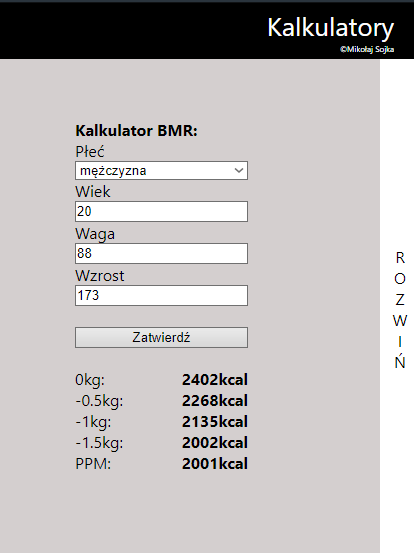
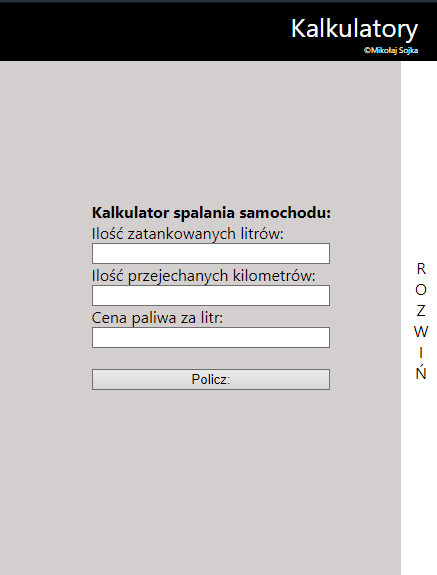
kk

Changed region(s): [[0.1739, 0.2152, 0.7536, 0.8608], [0.6377, 0.0307, 0.9565, 0.123], [0.9275, 0.4304, 0.9855, 0.6763]]

diff --git a/static/js/main.6bba95f8.chunk.js b/static/js/main.6bba95f8.chunk.js
@@ -1,0 +1,2 @@
+(window.webpackJsonpportfolio=window.webpackJsonpportfolio||[]).push([[0],{102:function(e,t,a){"use strict";a.r(t);var n=a(0),i=a.n(n),s=a(36),o=a.n(s),c=(a(47),a(3)),r=a(1),l=a(4),m=a(5),p=a(6);a(48);var d=function(){return i.a.createElement("div",{className:"header"},i.a.createElement("div",{className:"navbar"},i.a.createElement("a",{href:"#A2"},"Miko\u0142aj Sojka")),i.a.createElement("div",{className:"menu"},i.a.createElement("div",{className:"nav"},i.a.createElement("a",{href:"#A1"},"Projekty")),i.a.createElement("div",{className:"nav"},i.a.createElement("a",{href:"#A3"},"Kontakt"))))},u=(a(49),a(50),a(19)),h=a.n(u),E=a(9),y=a.n(E),k=(a(13),function(e){function t(){var e,a;Object(c.a)(this,t);for(var n=arguments.length,i=new Array(n),s=0;s<n;s++)i[s]=arguments[s];return(a=Object(l.a)(this,(e=Object(m.a)(t)).call.apply(e,[this].concat(i)))).state={list:"",presentation:"",mouseover:1,style:"",clicked:0},a.onMouseOver=function(e){window.innerWidth>900&&(document.getElementById("pres".concat(a.props.id)).style.display="none",document.getElementById("desc".concat(a.props.id)).style.display="block")},a.onClick=function(e){window.innerWidth<=900&&(0===a.state.clicked&&(document.getElementById("pres".concat(a.props.id)).style.display="none",document.getElementById("desc".concat(a.props.id)).style.display="block",a.setState({clicked:1})),1===a.state.clicked&&(document.getElementById("pres".concat(a.props.id)).style.display="flex",document.getElementById("desc".concat(a.props.id)).style.display="none",a.setState({clicked:0})))},a.onMouseOut=function(){window.innerWidth>900&&(document.getElementById("pres".concat(a.props.id)).style.display="flex",document.getElementById("desc".concat(a.props.id)).style.display="none")},a}return Object(p.a)(t,e),Object(r.a)(t,[{key:"updateSize",value:function(){document.getElementById("pres".concat(this.props.id)).style.display="flex",document.getElementById("desc".concat(this.props.id)).style.display="none"}},{key:"componentDidMount",value:function(){var e=this;window.addEventListener("resize",this.updateSize.bind(this)),void 0===this.props.demo&&(console.log(this.props.demo),this.setState({style:"none"}));try{var t="<div class='div-ul'>";this.props.technology.map((function(a){return t+="<div class='div-li".concat(e.props.type,"'>").concat(a,"</div>"),0})),t+="</div>",this.setState({list:t}),"iframe"===this.props.presentation&&(t="<iframe\n            id=".concat(this.props.alt,'\n            type="text/html"\n            width="100%"\n            height="100%"\n            src=').concat(this.props.src,'\n            allowfullscreen="allowfullscreen"\n            mozallowfullscreen="mozallowfullscreen" \n            msallowfullscreen="msallowfullscreen" \n            oallowfullscreen="oallowfullscreen" \n            webkitallowfullscreen="webkitallowfullscreen"\n            frameborder="0"\n          />'),this.setState({presentation:t})),"image"===this.props.presentation&&(t="<img\n      src=".concat(this.props.src,"\n      id=").concat(this.props.id,"\n      alt=").concat(this.props.alt,"\n    />"),this.setState({presentation:t}))}catch(a){}}},{key:"renderDemo",value:function(){if(!this.state.style)return i.a.createElement("a",{href:this.props.demo},i.a.createElement("div",{id:"demo",className:"link ".concat(this.state.style," ").concat("l-"+this.props.type)},"Demo"))}},{key:"render",value:function(){return y.a.init(),i.a.createElement("div",{className:"project",onMouseOver:this.onMouseOver,onMouseOut:this.onMouseOut,onClick:this.onClick},i.a.createElement("div",{className:"presentation",id:"pres"+this.props.id},h()(this.state.presentation)),i.a.createElement("div",{className:"description ".concat("t-"+this.props.type),id:"desc"+this.props.id},i.a.createElement("div",{className:"pro-title ".concat("tit-"+this.props.type)},this.props.title),i.a.createElement("div",{className:"links"},i.a.createElement("a",{href:this.props.href},i.a.createElement("div",{className:"first link ".concat("under"+this.props.type," ").concat("l-"+this.props.type)},"Github")),this.renderDemo()),i.a.createElement("div",{className:"pro-desc"},i.a.createElement("b",null,this.props.description)),h()(this.state.list)))}}]),t}(i.a.Component)),w=function(e){function t(){return Object(c.a)(this,t),Object(l.a)(this,Object(m.a)(t).apply(this,arguments))}return Object(p.a)(t,e),Object(r.a)(t,[{key:"componentDidMount",value:function(){y.a.init()}},{key:"render",value:function(){return i.a.createElement("div",null,i.a.createElement("div",{className:"projects last",id:"A1"},i.a.createElement("div",{className:"title-p"},i.a.createElement("p",null,i.a.createElement("b",{className:"p"},"Projekty:"))),i.a.createElement("div",{id:"pros"},i.a.createElement(k,{technology:["HTML","CSS","REACT JS oraz REDUX","NODE JS - BACKEND (w\u0142asny serwer z danymi)"],type:"1",title:"Skm",description:"Aplikacja pozwala sprawdza\u0107 odleg\u0142o\u015bci mi\u0119dzy stacjami SKM.",image:"./7.png",alt:"skm",id:"skm",presentation:"image",src:"./7.png",href:"https://github.com/msojka96/inf_exp/tree/master/skm",demo:"https://msojka96.github.io/skm"}),i.a.createElement(k,{technology:["HTML","CSS/LESS","MONGO DB","NODE JS (BACKEND - w\u0142asny serwer)","REACT JS oraz REDUX","LOGOWANIE","REJESTRACJA"],type:"1",title:"FIT APP",description:"Dzienniczek kaloryczny online.",image:"./4.png",alt:"fitapp",id:"fitapp",presentation:"image",src:"./4.png",href:"https://github.com/msojka96/inf_exp/tree/master/fitApp",demo:"https://msojka96.github.io/fitapp"}),i.a.createElement(k,{technology:["HTML","CSS/LESS","VUE oraz VUEX","NODE JS (BACKEND - w\u0142asny serwer)","SOCKET IO","MONGO DB","LOGIN: administrator","HAS\u0141O: admin"],type:"1",title:"Konkurs pi\u0119kno\u015bci koni Arabskich",description:"Panel s\u0119dziowski do konkursu pi\u0119kno\u015bci dla koni.",image:"./2.png",alt:"konie arabskie",id:"horses",presentation:"image",src:"./2.png",href:"https://github.com/msojka96/inf_exp/tree/master/project-horses",demo:"https://msojka96.github.io/horses"}))),i.a.createElement("div",{className:"projects projects-2 last"},i.a.createElement(k,{technology:["HTML","CSS","REACT JS oraz REDUX","GOOGLE CUSTOM SEARCH API","SEMANTIC UI"],type:"2",title:"Wyszukiwarka",description:"Wyszukiwarka zapyta\u0144 z serwisu Wikipedia.",image:"./3.png",alt:"wyszukiwarka",id:"searcher",presentation:"image",src:"./3.png",href:"https://github.com/msojka96/inf_exp/tree/master/searcher",demo:"https://msojka96.github.io/searcher"}),i.a.createElement(k,{technology:["HTML","CSS/LESS","REACT JS oraz REDUX"],type:"2",title:"Generator CV",description:"Aplikacja zosta\u0142a stworzona w oparciu o moje potrzeby tworzenia CV bez u\u017cywania programu Word.",image:"./8.png",alt:"cv",id:"cv",presentation:"image",src:"./8.png",href:"https://github.com/msojka96/inf_exp/tree/master/cv",demo:"https://msojka96.github.io/cv"}),i.a.createElement(k,{technology:["HTML","CSS/LESS","REACT JS oraz REDUX"],type:"2",title:"Kalkulatory",description:"Aplikacja zawiera kalkulatory do r\xf3\u017cnych oblicze\u0144 potrzebnych w \u017cyciu.",image:"./9.png",alt:"calculatores",id:"calculatores",presentation:"image",src:"./9.png",href:"https://github.com/msojka96/inf_exp/tree/master/calculators",demo:"https://msojka96.github.io/calculators"})),i.a.createElement("div",{className:"projects last"},i.a.createElement(k,{technology:["HTML","CSS/LESS","BOOTSTRAP","GOOGLE MAPS API"],type:"1",title:"Strona domki Rewa",description:"Niedoko\u0144czone zlecenie strony promuj\u0105cej wynajem domk\xf3w na Rewie.",image:"./1.png",alt:"domki rewa",id:"domki",presentation:"image",src:"./1.png",href:"https://github.com/msojka96/msojka96.github.io/tree/master/strona_domki",demo:"https://msojka96.github.io/strona_domki"})))}}]),t}(i.a.Component),f=(a(94),function(e){function t(){return Object(c.a)(this,t),Object(l.a)(this,Object(m.a)(t).apply(this,arguments))}return Object(p.a)(t,e),Object(r.a)(t,[{key:"componentDidMount",value:function(){y.a.init()}},{key:"render",value:function(){return i.a.createElement("div",{className:"about",id:"A2"},i.a.createElement("div",{id:"box-1",className:"box"},i.a.createElement("div",{id:"about",className:"about-photo"},i.a.createElement("img",{src:"me.jpg",id:"me",alt:"me"})),i.a.createElement("div",{id:"life",className:"desc"},i.a.createElement("div",{className:"desc-text"},i.a.createElement("p",null,i.a.createElement("b",{className:"title-p t"},"O mnie :")),"Mam 22 lata. Uko\u0144czy\u0142em kierunek licencjacki: ",i.a.createElement("b",null,"informatyka")," ","na wydziale MFI na Uniwesytecie Gda\u0144skim ze specjalizacj\u0105:"," ",i.a.createElement("b",null,"aplikacje internetowe i bazy danych"),". Interesuj\u0119 si\u0119 napraw\u0105 urz\u0105dze\u0144 elektronicznych , jazd\u0105 wyczynow\u0105 na rolkach, jazd\u0105 wyczynow\u0105 na \u0142y\u017cwach, sportem oraz s\u0142uchaniem muzyki. Dodatkow\u0105 przyjemno\u015b\u0107 sprawia mi tworzenie aplikacji internetowych."))),i.a.createElement("div",{id:"box-2",className:"box"},i.a.createElement("div",{id:"skills",className:"desc"},i.a.createElement("p",null,i.a.createElement("b",{className:"title-p"},"Umiej\u0119tno\u015bci :")),i.a.createElement("ul",null,i.a.createElement("li",null,i.a.createElement("b",null,"Javascript"),", wraz z Dom Api, Jquery oraz Ajax."),i.a.createElement("li",null,"ReactJS, wraz z Redux oraz Vue, wraz z Vuex."),i.a.createElement("li",null,"Html, CSS, Less, Sass."),i.a.createElement("li",null,"ExpressJS, pisanie w\u0142asnych serwer\xf3w."),i.a.createElement("li",null,"Znajomo\u015b\u0107 systemu Linux oraz Git."),i.a.createElement("li",null,"Bieg\u0142a obs\u0142uga program\xf3w: Excel oraz Word."),i.a.createElement("li",null,"Dodatkowo podczas studiowania mia\u0142em kontakt z j\u0119zykami: C, Java, C++, Ruby, Assembler, C#, batch, SQL, PostgreSQL."))),i.a.createElement("div",{id:"about",className:"about-photo"},i.a.createElement("img",{src:"me1.jpg",id:"me1",alt:"me1"}))),i.a.createElement("div",{id:"box-3",className:"box"},i.a.createElement("div",{id:"about",className:"about-photo"},i.a.createElement("img",{src:"me2.jpg",id:"me2",alt:"me2"})),i.a.createElement("div",{className:"desc"},i.a.createElement("p",null,i.a.createElement("b",{className:"title-p t"},"UWAGA!: ")),i.a.createElement("p",null,"Poni\u017cej znajduj\u0105 si\u0119 wybrane przeze mnie projekty wraz z przekierowaniami do ich repozytori\xf3w. Tworz\u0105c moje prywatne projekty staram si\u0119 u\u017cywa\u0107 w\u0142asnych umiej\u0119tno\u015bci CSS/LESS/SASS."))))}}]),t}(i.a.Component)),g=(a(95),a(39)),b=a.n(g),j=a(40),v=a.n(j),S=a(37),z=a.n(S),N=function(e){function t(){return Object(c.a)(this,t),Object(l.a)(this,Object(m.a)(t).apply(this,arguments))}return Object(p.a)(t,e),Object(r.a)(t,[{key:"render",value:function(){return i.a.createElement("div",{className:"about",id:"A3"},i.a.createElement("p",{id:"contact"},i.a.createElement("b",null,"Kontakt:")),i.a.createElement("div",{className:"ainfo"},i.a.createElement(z.a,{className:"icons"})," \xa0"," ",i.a.createElement("a",{id:"github",href:"https://github.com/msojka96/"},"github")),i.a.createElement("div",{className:"ainfo"},i.a.createElement(b.a,{className:"icons"})," \xa0 690-819-235"),i.a.createElement("div",{className:"ainfo"},i.a.createElement(v.a,{className:"icons"})," \xa0 mikolaj.sojka@gmail.com"))}}]),t}(i.a.Component),O=function(e){function t(){var e,a;Object(c.a)(this,t);for(var n=arguments.length,s=new Array(n),o=0;o<n;o++)s[o]=arguments[o];return(a=Object(l.a)(this,(e=Object(m.a)(t)).call.apply(e,[this].concat(s)))).state={classname:"start"},a.handleClick=function(e){window.scrollTo(0,0)},a.handleScroll=function(){0!==window.scrollY?a.setState({classname:"update"}):a.setState({classname:"start"})},a.render=function(){return i.a.createElement("div",{className:"app"},i.a.createElement(d,null),i.a.createElement(f,null),i.a.createElement(w,{direction:"fade-down"}),i.a.createElement(N,{direction:"fade-down"}),i.a.createElement("div",{id:"button_top",className:a.state.classname,onClick:a.handleClick,color:"error"}),i.a.createElement("a",{href:"https://jigsaw.w3.org/css-validator/check/referer"},i.a.createElement("img",{id:"w3c",src:"https://jigsaw.w3.org/css-validator/images/vcss",alt:"Poprawny CSS!"})),i.a.createElement("footer",null,"\xa9 Copyright Miko\u0142aj Sojka"))},a}return Object(p.a)(t,e),Object(r.a)(t,[{key:"componentDidMount",value:function(){window.addEventListener("scroll",this.handleScroll,!0)}}]),t}(i.a.Component);o.a.render(i.a.createElement(O,null),document.getElementById("root"))},42:function(e,t,a){e.exports=a(102)},47:function(e,t,a){},48:function(e,t,a){},49:function(e,t,a){},50:function(e,t,a){},75:function(e,t){},94:function(e,t,a){},95:function(e,t,a){}},[[42,1,2]]]);
+//# sourceMappingURL=main.6bba95f8.chunk.js.map

diff --git a/static/css/main.eba449f2.chunk.css b/static/css/main.eba449f2.chunk.css
@@ -1,0 +1,2 @@
+html{scroll-behavior:smooth;font-family:Candara,Times,serif!important;background-color:#f5f7f8}.app{display:flex;flex-direction:column}body{margin:0}#button_top{position:fixed;right:30px;bottom:30px;cursor:pointer;width:30px;height:30px;background-color:#515a5a}#button_top:hover{background-color:#b4b2b2;-webkit-transition:.5s;transition:.5s}.start{visibility:hidden}.update{visibility:visible}footer{color:#fff;text-align:center;align-items:center;justify-content:center}#w3c,footer{height:20px;display:none}#w3c{border:0;width:70px;position:absolute;opacity:.3;left:0;top:15vh}@media only screen and (max-width:1100px){footer{width:95vw;align-self:center}}.header{background-color:#000;color:#fff;height:15vh;justify-content:space-between;padding:0 20px}.header,.navbar{display:flex;align-items:center}.navbar{font-size:30px;cursor:pointer;justify-content:center}.menu{display:flex}.nav{padding-right:20px}a:link,a:visited{color:#fff}a:hover{color:#cccaca;-webkit-transition:.5s;transition:.5s}a:link{text-decoration:none}a:active{color:#fff}@media only screen and (max-width:900px){.navbar{font-size:20px}}.projects{height:600px;display:flex;width:100%;justify-content:space-around;align-items:center;background-color:#000}.title-p{font-size:30px;color:#fff;justify-content:flex-start;width:80%;margin-bottom:10px}.t{color:#000}.projects:first-child{flex-direction:column}#pros{display:flex;width:100%;justify-content:space-around;height:100%;padding-bottom:50px;align-items:center}.projects-2{background-color:#fff}@media only screen and (max-width:900px){.projects{height:auto;flex-direction:column;background-color:#fff}.title-p{color:#515151}#pros{height:auto;padding-bottom:0;flex-direction:column}}.project{height:400px;width:295px;display:flex;flex-direction:column;font-size:16px}.project:hover{-webkit-animation:shake .5s;animation:shake .5s;-webkit-animation-iteration-count:1;animation-iteration-count:1}.none{display:none}.links{color:#fff;display:flex;flex-direction:column;width:295px;align-items:flex-end}.link{width:100px;padding-right:15px;color:#515151;background-color:#fff;cursor:pointer;height:34px;display:flex;justify-content:center;align-items:center}.link:hover{background-color:#f5f7f8;color:#000;-webkit-transition-duration:1s;transition-duration:1s}#horses{opacity:.85}@-webkit-keyframes shake{0%{-webkit-transform:translate(1px,1px) rotate(0deg);transform:translate(1px,1px) rotate(0deg)}10%{-webkit-transform:translate(-1px,-2px) rotate(-1deg);transform:translate(-1px,-2px) rotate(-1deg)}20%{-webkit-transform:translate(-3px) rotate(1deg);transform:translate(-3px) rotate(1deg)}30%{-webkit-transform:translate(3px,2px) rotate(0deg);transform:translate(3px,2px) rotate(0deg)}40%{-webkit-transform:translate(1px,-1px) rotate(1deg);transform:translate(1px,-1px) rotate(1deg)}50%{-webkit-transform:translate(-1px,2px) rotate(-1deg);transform:translate(-1px,2px) rotate(-1deg)}60%{-webkit-transform:translate(-3px,1px) rotate(0deg);transform:translate(-3px,1px) rotate(0deg)}70%{-webkit-transform:translate(3px,1px) rotate(-1deg);transform:translate(3px,1px) rotate(-1deg)}80%{-webkit-transform:translate(-1px,-1px) rotate(1deg);transform:translate(-1px,-1px) rotate(1deg)}90%{-webkit-transform:translate(1px,2px) rotate(0deg);transform:translate(1px,2px) rotate(0deg)}to{-webkit-transform:translate(1px,-2px) rotate(-1deg);transform:translate(1px,-2px) rotate(-1deg)}}@keyframes shake{0%{-webkit-transform:translate(1px,1px) rotate(0deg);transform:translate(1px,1px) rotate(0deg)}10%{-webkit-transform:translate(-1px,-2px) rotate(-1deg);transform:translate(-1px,-2px) rotate(-1deg)}20%{-webkit-transform:translate(-3px) rotate(1deg);transform:translate(-3px) rotate(1deg)}30%{-webkit-transform:translate(3px,2px) rotate(0deg);transform:translate(3px,2px) rotate(0deg)}40%{-webkit-transform:translate(1px,-1px) rotate(1deg);transform:translate(1px,-1px) rotate(1deg)}50%{-webkit-transform:translate(-1px,2px) rotate(-1deg);transform:translate(-1px,2px) rotate(-1deg)}60%{-webkit-transform:translate(-3px,1px) rotate(0deg);transform:translate(-3px,1px) rotate(0deg)}70%{-webkit-transform:translate(3px,1px) rotate(-1deg);transform:translate(3px,1px) rotate(-1deg)}80%{-webkit-transform:translate(-1px,-1px) rotate(1deg);transform:translate(-1px,-1px) rotate(1deg)}90%{-webkit-transform:translate(1px,2px) rotate(0deg);transform:translate(1px,2px) rotate(0deg)}to{-webkit-transform:translate(1px,-2px) rotate(-1deg);transform:translate(1px,-2px) rotate(-1deg)}}.description{height:100%;color:#fff;display:none;font-size:18px}.pro-desc{padding-left:10px;padding-right:10px;margin-bottom:5px;margin-top:5px}.pro-title{width:100%;background-color:#000;color:#fff;display:flex;font-size:20px;justify-content:center;height:30px}img{height:400px;width:100%;object-fit:cover}.t-1{background-color:#fff;color:#515151}.l-1{background-color:#000;color:#fff}.under1{border-bottom:2px solid #fff}.under2{border-bottom:2px solid #000}.first{margin-top:2px}.l-2{background-color:#fff;color:#000}.div-li2{border-bottom:1px solid #fff}.div-li1{border-bottom:1px solid #000}.t-2,.tit-1{background-color:#000;color:#fff}.tit-2{background-color:#fff;color:#000}.div-ul{height:250px;display:flex;flex-direction:column;padding-left:10px;padding-right:10px}@media only screen and (max-width:900px){.project{border:2px solid #000;margin-bottom:10px}.links{width:100%}.project:hover{-webkit-animation:shake1 .5s;animation:shake1 .5s;-webkit-animation-iteration-count:1;animation-iteration-count:1}.description{height:400px}}.about{width:100%;align-self:center;font-size:22px;background-color:#fff}#A2{min-height:1500px}.about-photo{display:flex;width:40%;height:500px;align-items:center;justify-content:center}#me,#me1,#me2{object-fit:cover}.box{display:flex;width:100%;justify-content:space-around}#box-2{background-color:#000;color:#fff}.desc{width:40%;height:auto;color:#515151;align-self:center}#skills{color:#fff}@media only screen and (max-width:500px){.box{flex-direction:column;align-items:center;padding-top:10px;padding-bottom:20px}#A2,.box,.desc{height:auto}.desc{width:80%}.about-photo{width:95%;height:auto}#me2{border:2px solid #000}#me1{border:2px solid #fff}#me{border:2px solid #000}#box-2{flex-direction:column-reverse;height:auto}}#contact{color:#515151;font-size:22px;padding-left:30px}#github:link{text-decoration:none}#github:active,#github:link,#github:visited{color:#515151}#github:hover{color:#cccaca;-webkit-transition:.5s;transition:.5s}#title-contact{margin-bottom:5px;margin-top:0}.ainfo{height:50px;margin-bottom:10px}.ainfo,.icons{display:flex;align-items:center;color:#515151}.icons{padding-left:30px;height:20px;justify-content:center}
+/*# sourceMappingURL=main.eba449f2.chunk.css.map */

diff --git a/index.html b/index.html
@@ -1,1 +1,1 @@
-<!doctype html><html lang="en"><head><meta charset="utf-8"/><link rel="shortcut icon" href="/favicon.ico"/><meta name="viewport" content="width=device-width,initial-scale=1"/><link rel="stylesheet" href="https://fonts.googleapis.com/css?family=Roboto:300,400,500,700&display=swap"/><meta name="theme-color" content="#000000"/><link href="https://fonts.googleapis.com/css?family=Roboto:400,700&amp;subset=cyrillic" rel="stylesheet"><meta name="description" content="Web site created using create-react-app"/><link rel="apple-touch-icon" href="logo192.png"/><link rel="manifest" href="/manifest.json"/><title>Portfolio</title><link href="/static/css/2.7abef457.chunk.css" rel="stylesheet"><link href="/static/css/main.55c7263c.chunk.css" rel="stylesheet"></head><body><noscript>You need to enable JavaScript to run this app.</noscript><div id="root"></div><script>!function(i){function e(e){for(var r,t,n=e[0],o=e[1],u=e[2],l=0,f=[];l<n.length;l++)t=n[l],Object.prototype.hasOwnProperty.call(a,t)&&a[t]&&f.push(a[t][0]),a[t]=0;for(r in o)Object.prototype.hasOwnProperty.call(o,r)&&(i[r]=o[r]);for(s&&s(e);f.length;)f.shift()();return c.push.apply(c,u||[]),p()}function p(){for(var e,r=0;r<c.length;r++){for(var t=c[r],n=!0,o=1;o<t.length;o++){var u=t[o];0!==a[u]&&(n=!1)}n&&(c.splice(r--,1),e=l(l.s=t[0]))}return e}var t={},a={1:0},c=[];function l(e){if(t[e])return t[e].exports;var r=t[e]={i:e,l:!1,exports:{}};return i[e].call(r.exports,r,r.exports,l),r.l=!0,r.exports}l.m=i,l.c=t,l.d=function(e,r,t){l.o(e,r)||Object.defineProperty(e,r,{enumerable:!0,get:t})},l.r=function(e){"undefined"!=typeof Symbol&&Symbol.toStringTag&&Object.defineProperty(e,Symbol.toStringTag,{value:"Module"}),Object.defineProperty(e,"__esModule",{value:!0})},l.t=function(r,e){if(1&e&&(r=l(r)),8&e)return r;if(4&e&&"object"==typeof r&&r&&r.__esModule)return r;var t=Object.create(null);if(l.r(t),Object.defineProperty(t,"default",{enumerable:!0,value:r}),2&e&&"string"!=typeof r)for(var n in r)l.d(t,n,function(e){return r[e]}.bind(null,n));return t},l.n=function(e){var r=e&&e.__esModule?function(){return e.default}:function(){return e};return l.d(r,"a",r),r},l.o=function(e,r){return Object.prototype.hasOwnProperty.call(e,r)},l.p="/";var r=window.webpackJsonpportfolio=window.webpackJsonpportfolio||[],n=r.push.bind(r);r.push=e,r=r.slice();for(var o=0;o<r.length;o++)e(r[o]);var s=n;p()}([])</script><script src="/static/js/2.4e8b24e1.chunk.js"></script><script src="/static/js/main.5c3918df.chunk.js"></script></body></html>
+<!doctype html><html lang="en"><head><meta charset="utf-8"/><link rel="shortcut icon" href="/favicon.ico"/><meta name="viewport" content="width=device-width,initial-scale=1"/><link rel="stylesheet" href="https://fonts.googleapis.com/css?family=Roboto:300,400,500,700&display=swap"/><meta name="theme-color" content="#000000"/><link href="https://fonts.googleapis.com/css?family=Roboto:400,700&amp;subset=cyrillic" rel="stylesheet"><meta name="description" content="Web site created using create-react-app"/><link rel="apple-touch-icon" href="logo192.png"/><link rel="manifest" href="/manifest.json"/><title>Portfolio</title><link href="/static/css/2.7abef457.chunk.css" rel="stylesheet"><link href="/static/css/main.eba449f2.chunk.css" rel="stylesheet"></head><body><noscript>You need to enable JavaScript to run this app.</noscript><div id="root"></div><script>!function(i){function e(e){for(var r,t,n=e[0],o=e[1],u=e[2],l=0,f=[];l<n.length;l++)t=n[l],Object.prototype.hasOwnProperty.call(a,t)&&a[t]&&f.push(a[t][0]),a[t]=0;for(r in o)Object.prototype.hasOwnProperty.call(o,r)&&(i[r]=o[r]);for(s&&s(e);f.length;)f.shift()();return c.push.apply(c,u||[]),p()}function p(){for(var e,r=0;r<c.length;r++){for(var t=c[r],n=!0,o=1;o<t.length;o++){var u=t[o];0!==a[u]&&(n=!1)}n&&(c.splice(r--,1),e=l(l.s=t[0]))}return e}var t={},a={1:0},c=[];function l(e){if(t[e])return t[e].exports;var r=t[e]={i:e,l:!1,exports:{}};return i[e].call(r.exports,r,r.exports,l),r.l=!0,r.exports}l.m=i,l.c=t,l.d=function(e,r,t){l.o(e,r)||Object.defineProperty(e,r,{enumerable:!0,get:t})},l.r=function(e){"undefined"!=typeof Symbol&&Symbol.toStringTag&&Object.defineProperty(e,Symbol.toStringTag,{value:"Module"}),Object.defineProperty(e,"__esModule",{value:!0})},l.t=function(r,e){if(1&e&&(r=l(r)),8&e)return r;if(4&e&&"object"==typeof r&&r&&r.__esModule)return r;var t=Object.create(null);if(l.r(t),Object.defineProperty(t,"default",{enumerable:!0,value:r}),2&e&&"string"!=typeof r)for(var n in r)l.d(t,n,function(e){return r[e]}.bind(null,n));return t},l.n=function(e){var r=e&&e.__esModule?function(){return e.default}:function(){return e};return l.d(r,"a",r),r},l.o=function(e,r){return Object.prototype.hasOwnProperty.call(e,r)},l.p="/";var r=window.webpackJsonpportfolio=window.webpackJsonpportfolio||[],n=r.push.bind(r);r.push=e,r=r.slice();for(var o=0;o<r.length;o++)e(r[o]);var s=n;p()}([])</script><script src="/static/js/2.4e8b24e1.chunk.js"></script><script src="/static/js/main.6bba95f8.chunk.js"></script></body></html>

diff --git a/precache-manifest.a4e184dd7fa42cd968f77d2436ebc55e.js b/precache-manifest.a4e184dd7fa42cd968f77d2436ebc55e.js
@@ -1,6 +1,6 @@
 self.__precacheManifest = (self.__precacheManifest || []).concat([
   {
-    "revision": "65a5821cae16107bcbddc38bf904738a",
+    "revision": "f1893a24743ba5ae8210c5e4c82645b6",
     "url": "/index.html"
   },
   {
@@ -8,16 +8,16 @@ self.__precacheManifest = (self.__precacheManifest || []).concat([
     "url": "/static/css/2.7abef457.chunk.css"
   },
   {
-    "revision": "331bffdcdae44c888e24",
-    "url": "/static/css/main.55c7263c.chunk.css"
+    "revision": "5687d4d1c89cd18a30e1",
+    "url": "/static/css/main.eba449f2.chunk.css"
   },
   {
     "revision": "ff5c3323b86e7767acb2",
     "url": "/static/js/2.4e8b24e1.chunk.js"
   },
   {
-    "revision": "331bffdcdae44c888e24",
-    "url": "/static/js/main.5c3918df.chunk.js"
+    "revision": "5687d4d1c89cd18a30e1",
+    "url": "/static/js/main.6bba95f8.chunk.js"
   },
   {
     "revision": "416cc1c79b8c22940a8c",

diff --git a/service-worker.js b/service-worker.js
@@ -14,7 +14,7 @@
 importScripts("https://storage.googleapis.com/workbox-cdn/releases/4.3.1/workbox-sw.js");
 
 importScripts(
-  "/precache-manifest.01e164d5e18de7417fd048da2ce73add.js"
+  "/precache-manifest.a4e184dd7fa42cd968f77d2436ebc55e.js"
 );
 
 self.addEventListener('message', (event) => {
